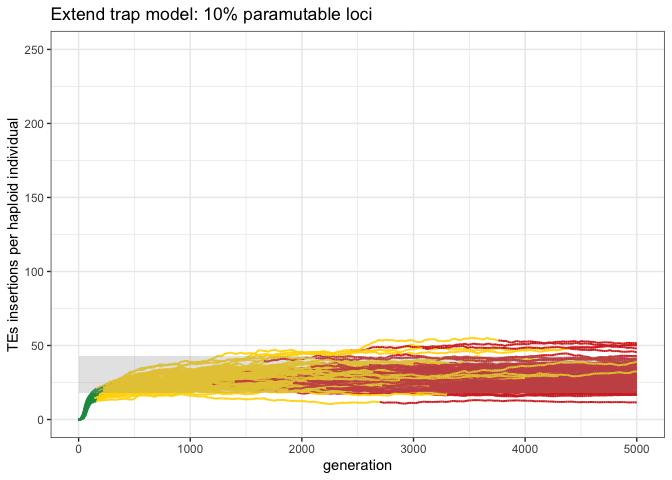
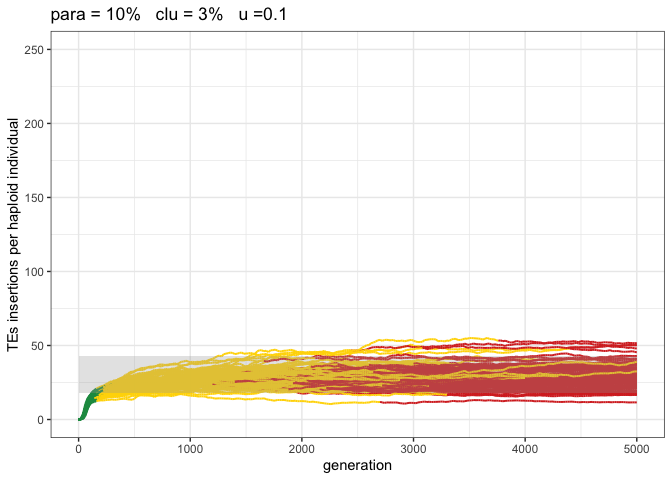
Update

Changed region(s): [[0.0625, 0.0, 0.5625, 0.0625]]

diff --git a/Simulation/2022_10_18_Simulation_6_Fitness.md b/Simulation/2022_10_18_Simulation_6_Fitness.md
@@ -17,11 +17,93 @@ We used 100 replicates for each simulation.
 
 ## Materials & Methods
 
-version: invadego0.2.1
+version: invadego0.2.2
 
 ### Commands for the simulation:
 
 ``` bash
+folder="/Users/ascarpa/Paramutations_TEs/Simulation/Raw"
+tool="/Users/ascarpa/invade-invadego/invadego022"
+
+$tool --N 1000 --gen 5000 --genome mb:10,10,10,10,10 --cluster kb:300,300,300,300,300 --rr 4,4,4,4,4 --rep 100 --u 0.1 --basepop 100 --steps 1 --sampleid p0_x0 > $folder/2022_10_18_simulation_6_1 &
+
+$tool --N 1000 --gen 5000 --genome mb:10,10,10,10,10 --cluster kb:300,300,300,300,300 --rr 4,4,4,4,4 --rep 100 --u 0.1 --basepop 100 -x 0.02 --steps 1 --sampleid p0_x0.02 > $folder/2022_10_18_simulation_6_2 &
+
+$tool --N 1000 --gen 5000 --genome mb:10,10,10,10,10 --cluster kb:300,300,300,300,300 --rr 4,4,4,4,4 --rep 100 --u 0.1 --basepop 100 -x 0.03 --steps 1 --sampleid p0_x0.03 > $folder/2022_10_18_simulation_6_3 &
+
+$tool --N 1000 --gen 5000 --genome mb:10,10,10,10,10 --cluster kb:300,300,300,300,300 --rr 4,4,4,4,4 --rep 100 --u 0.1 --basepop 100 -x 0.05 --steps 1 --sampleid p0_x0.05 > $folder/2022_10_18_simulation_6_4 &
+
+$tool --N 1000 --gen 5000 --genome mb:10,10,10,10,10 --cluster kb:300,300,300,300,300 --rr 4,4,4,4,4 --rep 100 --u 0.1 --basepop 100 --paramutation 100:1 --steps 1 --sampleid p1_x0 > $folder/2022_10_18_simulation_6_5 &
+
+$tool --N 1000 --gen 5000 --genome mb:10,10,10,10,10 --cluster kb:300,300,300,300,300 --rr 4,4,4,4,4 --rep 100 --u 0.1 --basepop 100 -x 0.02 --paramutation 100:1 --steps 1 --sampleid p1_x0.02 > $folder/2022_10_18_simulation_6_6 &
+
+$tool --N 1000 --gen 5000 --genome mb:10,10,10,10,10 --cluster kb:300,300,300,300,300 --rr 4,4,4,4,4 --rep 100 --u 0.1 --basepop 100 -x 0.03 --paramutation 100:1 --steps 1 --sampleid p1_x0.03 > $folder/2022_10_18_simulation_6_7 &
+
+$tool --N 1000 --gen 5000 --genome mb:10,10,10,10,10 --cluster kb:300,300,300,300,300 --rr 4,4,4,4,4 --rep 100 --u 0.5 --basepop 100 -x 0.05 --paramutation 100:1 --steps 1 --sampleid p1_x0.05 > $folder/2022_10_18_simulation_6_8 &
+
+$tool --N 1000 --gen 5000 --genome mb:10,10,10,10,10 --cluster kb:300,300,300,300,300 --rr 4,4,4,4,4 --rep 100 --u 0.1 --basepop 100 --paramutation 10:1 --steps 1 --sampleid p10_x0 > $folder/2022_10_18_simulation_6_9 &
+
+$tool --N 1000 --gen 5000 --genome mb:10,10,10,10,10 --cluster kb:300,300,300,300,300 --rr 4,4,4,4,4 --rep 100 --u 0.1 --basepop 100 -x 0.02 --paramutation 10:1 --steps 1 --sampleid p10_x0.02 > $folder/2022_10_18_simulation_6_10 &
+
+$tool --N 1000 --gen 5000 --genome mb:10,10,10,10,10 --cluster kb:300,300,300,300,300 --rr 4,4,4,4,4 --rep 100 --u 0.1 --basepop 100 -x 0.03 --paramutation 10:1 --steps 1 --sampleid p10_x0.03 > $folder/2022_10_18_simulation_6_11 &
+
+$tool --N 1000 --gen 5000 --genome mb:10,10,10,10,10 --cluster kb:300,300,300,300,300 --rr 4,4,4,4,4 --rep 100 --u 0.1 --basepop 100 -x 0.05 --paramutation 10:1 --steps 1 --sampleid p10_x0.05 > $folder/2022_10_18_simulation_6_12 &
+
+$tool --N 1000 --gen 5000 --genome mb:10,10,10,10,10 --cluster kb:300,300,300,300,300 --rr 4,4,4,4,4 --rep 100 --u 0.1 --basepop 100 --paramutation 1:0 --steps 1 --sampleid p100_x0 > $folder/2022_10_18_simulation_6_13 &
+
+$tool --N 1000 --gen 5000 --genome mb:10,10,10,10,10 --cluster kb:300,300,300,300,300 --rr 4,4,4,4,4 --rep 100 --u 0.1 --basepop 100 -x 0.02 --paramutation 1:0 --steps 1 --sampleid p100_x0.02 > $folder/2022_10_18_simulation_6_14 &
+
+$tool --N 1000 --gen 5000 --genome mb:10,10,10,10,10 --cluster kb:300,300,300,300,300 --rr 4,4,4,4,4 --rep 100 --u 0.1 --basepop 100 -x 0.03 --paramutation 1:0 --steps 1 --sampleid p100_x0.03 > $folder/2022_10_18_simulation_6_15 &
+
+$tool --N 1000 --gen 5000 --genome mb:10,10,10,10,10 --cluster kb:300,300,300,300,300 --rr 4,4,4,4,4 --rep 100 --u 0.1 --basepop 100 -x 0.05 --paramutation 1:0 --steps 1 --sampleid p100_x0.05 > $folder/2022_10_18_simulation_6_16 &
+
+$tool --N 1000 --gen 5000 --genome mb:10,10,10,10,10 --cluster kb:300,300,300,300,300 --rr 4,4,4,4,4 --rep 100 --u 0.1 --basepop 100 -no-x-cluins --steps 1 --sampleid p0_x0 > $folder/2022_10_18_simulation_6_1_noxclu &
+
+$tool --N 1000 --gen 5000 --genome mb:10,10,10,10,10 --cluster kb:300,300,300,300,300 --rr 4,4,4,4,4 --rep 100 --u 0.1 --basepop 100 -x 0.02 -no-x-cluins --steps 1 --sampleid p0_x0.02 > $folder/2022_10_18_simulation_6_2_noxclu &
+
+$tool --N 1000 --gen 5000 --genome mb:10,10,10,10,10 --cluster kb:300,300,300,300,300 --rr 4,4,4,4,4 --rep 100 --u 0.1 --basepop 100 -x 0.03 -no-x-cluins --steps 1 --sampleid p0_x0.03 > $folder/2022_10_18_simulation_6_3_noxclu &
+
+$tool --N 1000 --gen 5000 --genome mb:10,10,10,10,10 --cluster kb:300,300,300,300,300 --rr 4,4,4,4,4 --rep 100 --u 0.1 --basepop 100 -x 0.05 -no-x-cluins --steps 1 --sampleid p0_x0.05 > $folder/2022_10_18_simulation_6_4_noxclu &
+
+$tool --N 1000 --gen 5000 --genome mb:10,10,10,10,10 --cluster kb:300,300,300,300,300 --rr 4,4,4,4,4 --rep 100 --u 0.1 --basepop 100 --paramutation 100:1 -no-x-cluins --steps 1 --sampleid p1_x0 > $folder/2022_10_18_simulation_6_5_noxclu &
+
+$tool --N 1000 --gen 5000 --genome mb:10,10,10,10,10 --cluster kb:300,300,300,300,300 --rr 4,4,4,4,4 --rep 100 --u 0.1 --basepop 100 -x 0.02 --paramutation 100:1 -no-x-cluins --steps 1 --sampleid p1_x0.02 > $folder/2022_10_18_simulation_6_6_noxclu &
+
+$tool --N 1000 --gen 5000 --genome mb:10,10,10,10,10 --cluster kb:300,300,300,300,300 --rr 4,4,4,4,4 --rep 100 --u 0.1 --basepop 100 -x 0.03 --paramutation 100:1 -no-x-cluins --steps 1 --sampleid p1_x0.03 > $folder/2022_10_18_simulation_6_7_noxclu &
+
+$tool --N 1000 --gen 5000 --genome mb:10,10,10,10,10 --cluster kb:300,300,300,300,300 --rr 4,4,4,4,4 --rep 100 --u 0.5 --basepop 100 -x 0.05 --paramutation 100:1 -no-x-cluins --steps 1 --sampleid p1_x0.05 > $folder/2022_10_18_simulation_6_8_noxclu &
+
+$tool --N 1000 --gen 5000 --genome mb:10,10,10,10,10 --cluster kb:300,300,300,300,300 --rr 4,4,4,4,4 --rep 100 --u 0.1 --basepop 100 --paramutation 10:1 -no-x-cluins --steps 1 --sampleid p10_x0 > $folder/2022_10_18_simulation_6_9_noxclu &
+
+$tool --N 1000 --gen 5000 --genome mb:10,10,10,10,10 --cluster kb:300,300,300,300,300 --rr 4,4,4,4,4 --rep 100 --u 0.1 --basepop 100 -x 0.02 --paramutation 10:1 -no-x-cluins --steps 1 --sampleid p10_x0.02 > $folder/2022_10_18_simulation_6_10_noxclu &
+
+$tool --N 1000 --gen 5000 --genome mb:10,10,10,10,10 --cluster kb:300,300,300,300,300 --rr 4,4,4,4,4 --rep 100 --u 0.1 --basepop 100 -x 0.03 --paramutation 10:1 -no-x-cluins --steps 1 --sampleid p10_x0.03 > $folder/2022_10_18_simulation_6_11_noxclu &
+
+$tool --N 1000 --gen 5000 --genome mb:10,10,10,10,10 --cluster kb:300,300,300,300,300 --rr 4,4,4,4,4 --rep 100 --u 0.1 --basepop 100 -x 0.05 --paramutation 10:1 -no-x-cluins --steps 1 --sampleid p10_x0.05 > $folder/2022_10_18_simulation_6_12_noxclu &
+
+$tool --N 1000 --gen 5000 --genome mb:10,10,10,10,10 --cluster kb:300,300,300,300,300 --rr 4,4,4,4,4 --rep 100 --u 0.1 --basepop 100 --paramutation 1:0 -no-x-cluins --steps 1 --sampleid p100_x0 > $folder/2022_10_18_simulation_6_13_noxclu &
+
+$tool --N 1000 --gen 5000 --genome mb:10,10,10,10,10 --cluster kb:300,300,300,300,300 --rr 4,4,4,4,4 --rep 100 --u 0.1 --basepop 100 -x 0.02 --paramutation 1:0 -no-x-cluins --steps 1 --sampleid p100_x0.02 > $folder/2022_10_18_simulation_6_14_noxclu &
+
+$tool --N 1000 --gen 5000 --genome mb:10,10,10,10,10 --cluster kb:300,300,300,300,300 --rr 4,4,4,4,4 --rep 100 --u 0.1 --basepop 100 -x 0.03 --paramutation 1:0 -no-x-cluins --steps 1 --sampleid p100_x0.03 > $folder/2022_10_18_simulation_6_15_noxclu &
+
+$tool --N 1000 --gen 5000 --genome mb:10,10,10,10,10 --cluster kb:300,300,300,300,300 --rr 4,4,4,4,4 --rep 100 --u 0.1 --basepop 100 -x 0.05 --paramutation 1:0 -no-x-cluins --steps 1 --sampleid p100_x0.05 > $folder/2022_10_18_simulation_6_16_noxclu
+
+cat 2022_10_18_simulation_6_1 2022_10_18_simulation_6_5 2022_10_18_simulation_6_9 2022_10_18_simulation_6_13 |grep -v "^Invade"|grep -v "^#" > 2022_10_18_Simulation_6_Fitness_0
+
+cat 2022_10_18_simulation_6_2 2022_10_18_simulation_6_6 2022_10_18_simulation_6_10  2022_10_18_simulation_6_14 |grep -v "^Invade"|grep -v "^#" > 2022_10_18_Simulation_6_Fitness_0.02
+
+cat 2022_10_18_simulation_6_3 2022_10_18_simulation_6_7 2022_10_18_simulation_6_11  2022_10_18_simulation_6_15 |grep -v "^Invade"|grep -v "^#" > 2022_10_18_Simulation_6_Fitness_0.03
+
+cat 2022_10_18_simulation_6_4 2022_10_18_simulation_6_8 2022_10_18_simulation_6_12  2022_10_18_simulation_6_16 |grep -v "^Invade"|grep -v "^#" > 2022_10_18_Simulation_6_Fitness_0.05
+
+cat 2022_10_18_simulation_6_1_noxclu 2022_10_18_simulation_6_5_noxclu 2022_10_18_simulation_6_9_noxclu 2022_10_18_simulation_6_13_noxclu |grep -v "^Invade"|grep -v "^#" > 2022_10_18_Simulation_6_Fitness_0_noxclu
+
+cat 2022_10_18_simulation_6_2_noxclu 2022_10_18_simulation_6_6_noxclu 2022_10_18_simulation_6_10_noxclu  2022_10_18_simulation_6_14_noxclu |grep -v "^Invade"|grep -v "^#" > 2022_10_18_Simulation_6_Fitness_0.02_noxclu
+
+cat 2022_10_18_simulation_6_3_noxclu 2022_10_18_simulation_6_7_noxclu 2022_10_18_simulation_6_11_noxclu  2022_10_18_simulation_6_15_noxclu |grep -v "^Invade"|grep -v "^#" > 2022_10_18_Simulation_6_Fitness_0.03_noxclu
+
+cat 2022_10_18_simulation_6_4_noxclu 2022_10_18_simulation_6_8_noxclu 2022_10_18_simulation_6_12_noxclu  2022_10_18_simulation_6_16_noxclu |grep -v "^Invade"|grep -v "^#" > 2022_10_18_Simulation_6_Fitness_0.05_noxclu
 ```
 
 ### Visualization in R

diff --git a/Simulation/2022_11_21_Simulation_9_Paramutations_on_real_data.md b/Simulation/2022_11_21_Simulation_9_Paramutations_on_real_data.md
@@ -61,7 +61,7 @@ names(df) <- c("rep", "gen", "popstat", "fmale", "spacer_1", "fwte", "avw", "min
               "fwpar_yespi","fwpar_nopi", "avpar","fixpar","spacer_5","piori","orifreq","spacer 6", "sampleid")
 
 df$phase <- factor(df$phase, levels=c("rapi", "trig", "shot", "inac"))
-df$sampleid <- factor(df$sampleid, levels=c("p0", "p10","p100"))
+df$sampleid <- factor(df$sampleid, levels=c("p0", "p10"))
 
 
 g<-ggplot()+
@@ -113,7 +113,7 @@ g_2_trap <- ggplot()+
   ylim(0,250)+
   xlim(0,5000)+
   annotate("rect",ymin=min_df_2_t_haplo, ymax=max_df_2_t_haplo, xmin=0, xmax=5000, fill="darkgrey",alpha=.3)+
-  ggtitle("Trap model: 0% paramutable loci")
+  ggtitle("para = 0%   clu = 3%   u =0.1")
 
 plot(g_2_trap)
 ```
@@ -130,7 +130,7 @@ g_2_para <- ggplot()+
   ylim(0,250)+
   xlim(0,5000)+
   annotate("rect",ymin=min_df_2_10p_haplo, ymax=max_df_2_10p_haplo, xmin=0, xmax=5000, fill="darkgrey",alpha=.3)+
-  ggtitle("Extend trap model: 10% paramutable loci")
+  ggtitle("para = 10%   clu = 3%   u =0.1")
 
 plot(g_2_para)
 ```
